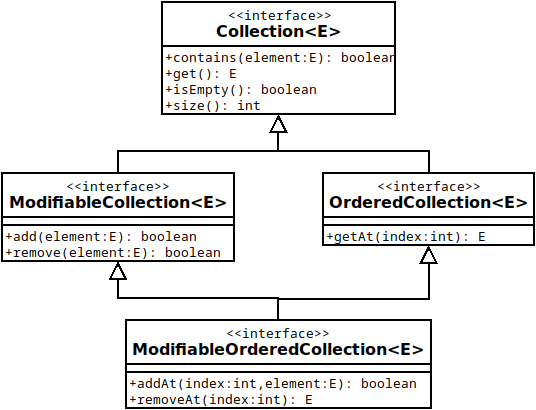
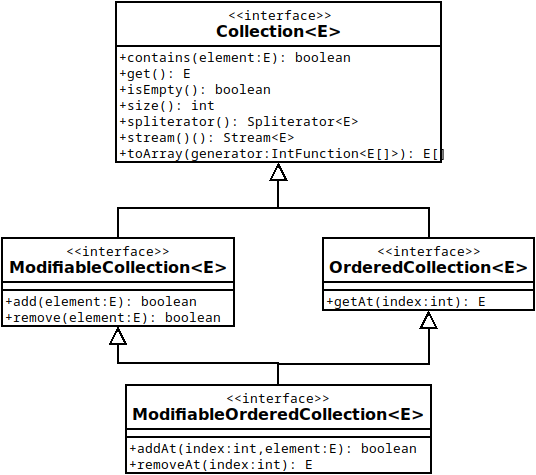
Added Spliterator and Stream functionality

Changed region(s): [[0.0, 0.0, 1.0, 1.0]]

diff --git a/src/main/java/net/filipvanlaenen/kolektoj/array/ArraySpliterator.java b/src/main/java/net/filipvanlaenen/kolektoj/array/ArraySpliterator.java
@@ -1,0 +1,53 @@
+package net.filipvanlaenen.kolektoj.array;
+
+import java.util.Arrays;
+import java.util.Spliterator;
+import java.util.function.Consumer;
+
+final class ArraySpliterator<E> implements Spliterator<E> {
+    private final int characteristics;
+    private final E[] elements;
+    private int index;
+
+    ArraySpliterator(final E[] elements, final int additionalCharacteristics) {
+        this.elements = elements.clone();
+        this.characteristics = SIZED | SUBSIZED | additionalCharacteristics;
+    }
+
+    private ArraySpliterator(final E[] elements, final int from, final int to, final int characteristics) {
+        this.elements = Arrays.copyOfRange(elements, from, to);
+        this.characteristics = characteristics;
+    }
+
+    @Override
+    public boolean tryAdvance(final Consumer<? super E> action) {
+        if (index < elements.length) {
+            action.accept(elements[index++]);
+            return true;
+        }
+        return false;
+    }
+
+    @Override
+    public Spliterator<E> trySplit() {
+        int currentSize = elements.length - index;
+        int splitIndex = index + currentSize / 2;
+        if (index < splitIndex) {
+            int originalIndex = index;
+            index = splitIndex;
+            return new ArraySpliterator<E>(elements, originalIndex, splitIndex, characteristics);
+        } else {
+            return null;
+        }
+    }
+
+    @Override
+    public long estimateSize() {
+        return (long) (elements.length - index);
+    }
+
+    @Override
+    public int characteristics() {
+        return characteristics;
+    }
+}

diff --git a/src/main/java/net/filipvanlaenen/kolektoj/Collection.java b/src/main/java/net/filipvanlaenen/kolektoj/Collection.java
@@ -1,5 +1,10 @@
 package net.filipvanlaenen.kolektoj;
 
+import java.util.Spliterator;
+import java.util.function.IntFunction;
+import java.util.stream.Stream;
+import java.util.stream.StreamSupport;
+
 import net.filipvanlaenen.kolektoj.array.ArrayCollection;
 
 /**
@@ -60,4 +65,28 @@ public interface Collection<E> {
      * @return The number of elements in the collection.
      */
     int size();
+
+    /**
+     * Returns a spliterator over the elements in this collection.
+     *
+     * @return A spliterator over the elements in this collection.
+     */
+    Spliterator<E> spliterator();
+
+    /**
+     * Returns a stream over the elements in this collection.
+     *
+     * @return A stream over the elements in this collection.
+     */
+    default Stream<E> stream() {
+        return StreamSupport.stream(spliterator(), false);
+    }
+
+    /**
+     * Returns the content of this collection as an array.
+     *
+     * @param generator A function that can produce an array for the element type of a given length.
+     * @return An array containing the elements of this collection.
+     */
+    E[] toArray(IntFunction<E[]> generator);
 }

diff --git a/src/main/java/net/filipvanlaenen/kolektoj/array/ArrayCollection.java b/src/main/java/net/filipvanlaenen/kolektoj/array/ArrayCollection.java
@@ -1,6 +1,7 @@
 package net.filipvanlaenen.kolektoj.array;
 
-import java.util.Arrays;
+import java.util.Spliterator;
+import java.util.function.IntFunction;
 
 import net.filipvanlaenen.kolektoj.Collection;
 
@@ -21,7 +22,7 @@ public final class ArrayCollection<E> implements Collection<E> {
      * @param elements The elements of the collection.
      */
     public ArrayCollection(final E... elements) {
-        this.elements = (E[]) Arrays.copyOf(elements, elements.length, Object[].class);
+        this.elements = elements.clone();
     }
 
     @Override
@@ -46,5 +47,19 @@ public final class ArrayCollection<E> implements Collection<E> {
     @Override
     public int size() {
         return elements.length;
+    }
+
+    public E[] toArray() {
+        return elements.clone();
+    }
+
+    @Override
+    public Spliterator<E> spliterator() {
+        return new ArraySpliterator<E>(elements, 0);
+    }
+
+    @Override
+    public E[] toArray(final IntFunction<E[]> generator) {
+        return toArray();
     }
 }

diff --git a/src/main/java/net/filipvanlaenen/kolektoj/array/OrderedArrayCollection.java b/src/main/java/net/filipvanlaenen/kolektoj/array/OrderedArrayCollection.java
@@ -1,6 +1,8 @@
 package net.filipvanlaenen.kolektoj.array;
 
 import java.util.Arrays;
+import java.util.Spliterator;
+import java.util.function.IntFunction;
 
 import net.filipvanlaenen.kolektoj.OrderedCollection;
 
@@ -56,5 +58,19 @@ public final class OrderedArrayCollection<E> implements OrderedCollection<E> {
     @Override
     public int size() {
         return elements.length;
+    }
+
+    @Override
+    public Spliterator<E> spliterator() {
+        return new ArraySpliterator<E>(elements, Spliterator.ORDERED);
+    }
+
+    public E[] toArray() {
+        return elements.clone();
+    }
+
+    @Override
+    public E[] toArray(final IntFunction<E[]> generator) {
+        return toArray();
     }
 }

diff --git a/README.md b/README.md
@@ -50,28 +50,28 @@ The table below shows how the methods defined on the
 [java.util.Collection&lt;E>](https://docs.oracle.com/en/java/javase/17/docs/api/java.base/java/util/Collection.html)
 interface map to Kolektoj methods.
 
-| JDK 17 Method                             | Kolektoj Class             | Kolektoj Method             |
-|-------------------------------------------|----------------------------|-----------------------------|
-| boolean add(E e)                          | ModifiableCollection&lt;E> | boolean add(E element)      |
-| boolean addAll(Collection&lt;? extends E> c) | | |
-| void clear() | | |
-| boolean contains(Object o)                | Collection&lt;E>           | boolean contains(E element) |
-| boolean containsAll(Collection&lt;?> c) | | |
-| boolean equals(Object o) | | |
-| int hashCode() | | |
-| boolean isEmpty()                         | Collection&lt;E>           | default boolean isEmpty()   |
-| Iterator&lt;E> iterator() | | |
-| default Stream&lt;E> parallelStream() | | |
-| boolean remove(Object o)                  | ModifiableCollection&lt;E> | boolean remove(E element)   |
-| boolean removeAll(Collection&lt;?> c) | | |
-| default boolean removeIf(Predicate&lt;? super E> filter) | | |
-| boolean retainAll(Collection&lt;?> c) | | |
-| int size()                                | Collection&lt;E>           | int size()                  |
-| default Spliterator&lt;E> spliterator() | | |
-| default Stream&lt;E> stream() | | |
-| Object[] toArray() | | |
-| default &lt;T> T[] toArray(IntFunction&lt;T[]> generator) | | |
-| &lt;T> T[] toArray(T[] a) | | |
+| JDK 17 Method                                             | Kolektoj Class             | Kolektoj Method                            |
+|-----------------------------------------------------------|----------------------------|--------------------------------------------|
+| boolean add(E e)                                          | ModifiableCollection&lt;E> | boolean add(E element)                     |
+| boolean addAll(Collection&lt;? extends E> c)              |                            |                                            |
+| void clear()                                              |                            |                                            |
+| boolean contains(Object o)                                | Collection&lt;E>           | boolean contains(E element)                |
+| boolean containsAll(Collection&lt;?> c)                   |                            |                                            |
+| boolean equals(Object o)                                  |                            |                                            |
+| int hashCode()                                            |                            |                                            |
+| boolean isEmpty()                                         | Collection&lt;E>           | default boolean isEmpty()                  |
+| Iterator&lt;E> iterator()                                 |                            |                                            |
+| default Stream&lt;E> parallelStream()                     |                            |                                            |
+| boolean remove(Object o)                                  | ModifiableCollection&lt;E> | boolean remove(E element)                  |
+| boolean removeAll(Collection&lt;?> c)                     |                            |                                            |
+| default boolean removeIf(Predicate&lt;? super E> filter)  |                            |                                            |
+| boolean retainAll(Collection&lt;?> c)                     |                            |                                            |
+| int size()                                                | Collection&lt;E>           | int size()                                 |
+| default Spliterator&lt;E> spliterator()                   | Collection&lt;E>           | Spliterator&lt;E> spliterator()            |
+| default Stream&lt;E> stream()                             | Collection&lt;E>           | default Stream&lt;E> stream()              |
+| Object[] toArray()                                        |                            |                                            |
+| default &lt;T> T[] toArray(IntFunction&lt;T[]> generator) | Collection&lt;E>           | E[] toArray(IntFunction&lt;E[]> generator) |
+| &lt;T> T[] toArray(T[] a)                                 |                            |                                            |
 
 
 #### Other
